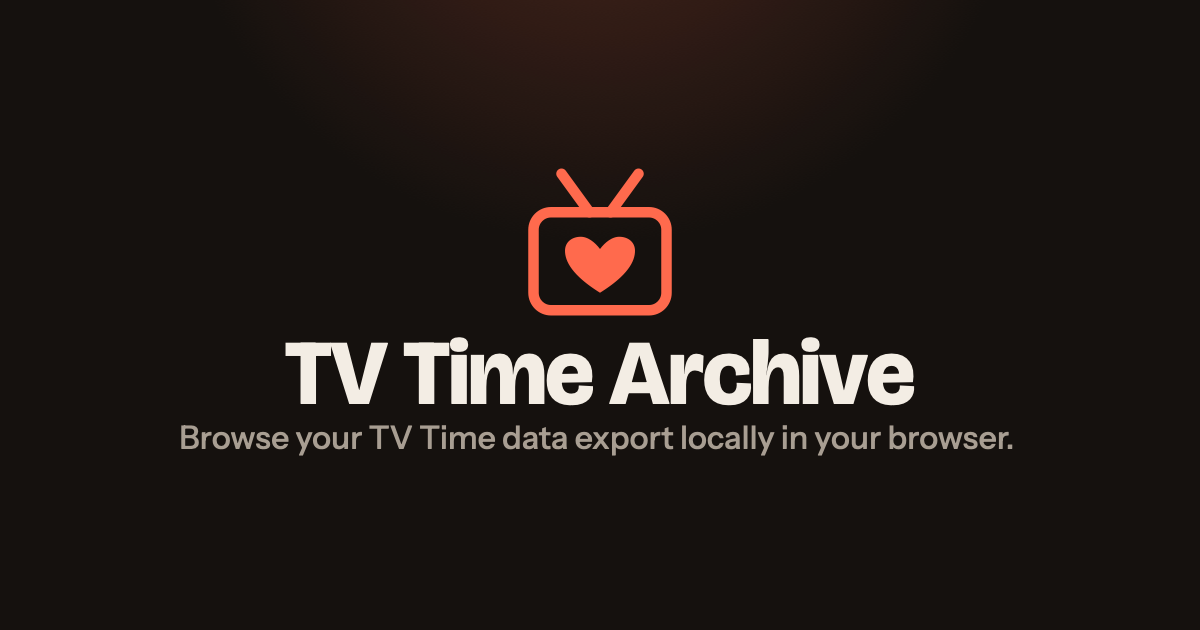
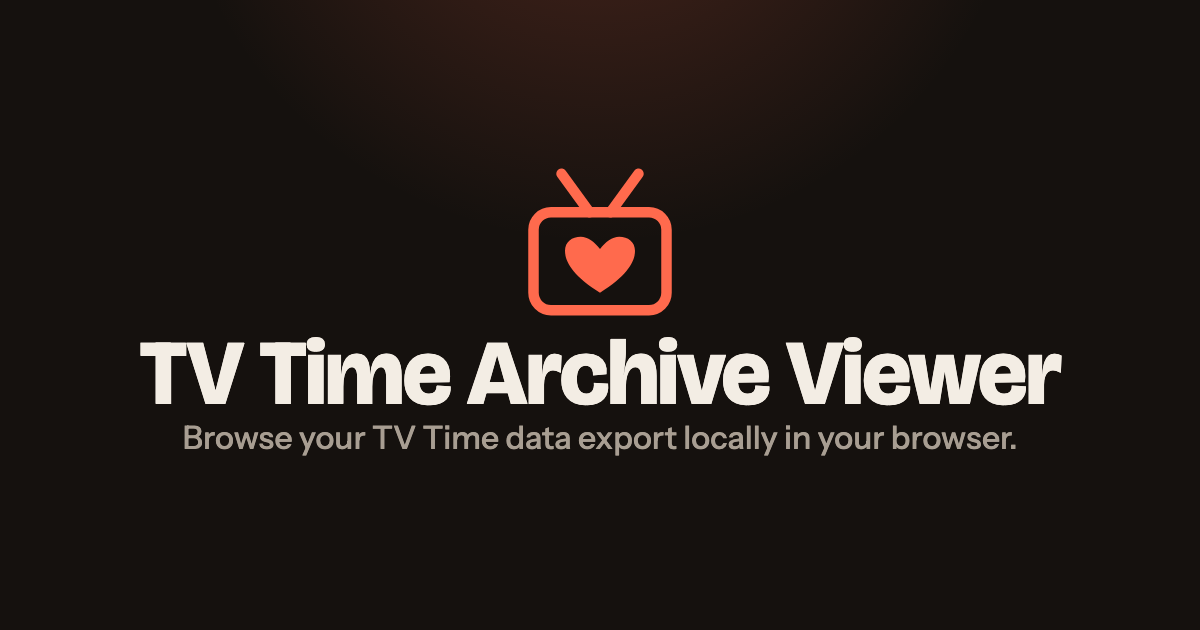
Fix app name inconsistencies throughout app

Changed region(s): [[0.0925, 0.5127, 0.8942, 0.7238]]

diff --git a/viewer/styles.css b/viewer/styles.css
@@ -62,7 +62,7 @@ code { font-family: 'JetBrains Mono', ui-monospace, "SF Mono", Menlo, Consolas, 
 button { font-family: inherit; cursor: pointer; }
 
 /* Display face, headings & big numerals (by selector, so markup is untouched) */
-.brand h1, .brand-rail, .view-head h2, .section-title,
+.brand h1, .view-head h2, .section-title,
 .stat-value, .detail-hero-text h2, .dz-title {
   font-family: 'Bricolage Grotesque', 'Instrument Sans', sans-serif;
   letter-spacing: -.02em;
@@ -126,7 +126,6 @@ button { font-family: inherit; cursor: pointer; }
 
 /* ---------- App shell ---------- */
 .app { min-height: 100dvh; }
-.brand-rail { display: none; }   /* desktop-only; hidden on mobile (shown in wide media query) */
 
 .topbar {
   position: sticky; top: 0; z-index: 20;
@@ -639,7 +638,7 @@ details.season[open] > summary .season-caret { transform: rotate(90deg); }
    =================================================================== */
 @media (min-width: 860px) {
   :root { --topbar-h: 60px; }
-  .app { display: grid; grid-template-columns: 232px 1fr; grid-template-rows: auto 1fr; grid-template-areas: "brandbar topbar" "sidebar main"; min-height: 100dvh; }
+  .app { display: grid; grid-template-columns: 232px 1fr; grid-template-rows: auto 1fr; grid-template-areas: "sidebar topbar" "sidebar main"; min-height: 100dvh; }
   .topbar { grid-area: topbar; }
   .view-root { grid-area: main; padding: 20px 24px 40px; }
   .profile-hero { margin: -20px -24px 12px; min-height: 360px; }
@@ -670,7 +669,6 @@ details.season[open] > summary .season-caret { transform: rotate(90deg); }
   .tabbar .subnav-item.active { background: var(--surface-2); }
   /* Pin "All data" (the last tab) to the bottom of the sidebar. */
   .tabbar > .tab:last-child { margin-top: auto; }
-  .brand-rail { grid-area: brandbar; display: flex; align-items: center; gap: 10px; padding: 0 18px; height: var(--topbar-h); border-bottom: 1px solid var(--line); border-right: 1px solid var(--line); background: var(--surface); font-weight: 700; }
 
   .stat-grid { grid-template-columns: repeat(4, 1fr); }
   .global-search { width: 260px; }

diff --git a/viewer/index.html b/viewer/index.html
@@ -47,7 +47,7 @@
   <div class="landing-inner">
     <div class="brand">
       <img class="brand-mark" src="favicon.svg" alt="" width="30" height="30">
-      <h1>TV Time Archive</h1>
+      <h1>TV Time Archive Viewer</h1>
     </div>
     <p class="tagline">Browse your TV Time data export locally in your browser.</p>
 
@@ -87,7 +87,7 @@
   <header class="topbar">
     <div class="topbar-left">
       <img class="brand-mark small" src="favicon.svg" alt="" width="22" height="22">
-      <strong id="appTitle">TV Time Archive</strong>
+      <strong id="appTitle">TV Time Archive Viewer</strong>
     </div>
     <div class="topbar-right">
       <input id="globalSearch" class="global-search" type="search" placeholder="Search this view…" hidden>

diff --git a/viewer/refract/index.html b/viewer/refract/index.html
@@ -48,7 +48,7 @@
   <div class="landing-inner">
     <div class="brand">
       <img class="brand-mark" src="favicon.svg" alt="" width="30" height="30">
-      <h1>Refract Archive</h1>
+      <h1>Refract Archive Viewer</h1>
     </div>
     <p class="tagline">Browse your Refract data export locally in your browser.</p>
 
@@ -89,7 +89,7 @@
   <header class="topbar">
     <div class="topbar-left">
       <img class="brand-mark small" src="favicon.svg" alt="" width="22" height="22">
-      <strong id="appTitle">Refract Archive</strong>
+      <strong id="appTitle">Refract Archive Viewer</strong>
     </div>
     <div class="topbar-right">
       <input id="globalSearch" class="global-search" type="search" placeholder="Search this view…" hidden>

diff --git a/viewer/refract/app/config.js b/viewer/refract/app/config.js
@@ -23,7 +23,6 @@ const hasAnime = (model) => model.shows.some(s => s.isAnime);
 const has = (key) => (model) => (model[key] || []).length > 0;
 
 export const REFRACT_APP = {
-  brand: { title: 'Refract Archive' },
   views: [
     { id: 'home',   label: 'Home',   icon: 'ph-house', render: renderHome },
     // Watch group
@@ -65,5 +64,5 @@ export const REFRACT_APP = {
     dropped:     ['warn', 'Dropped'],
   },
   settingsExtras: null,
-  crossLink: { label: 'Open TV Time Archive', href: '../' },
+  crossLink: { label: 'Open TV Time Archive Viewer', href: '../' },
 };

diff --git a/viewer/app/ui/shell.js b/viewer/app/ui/shell.js
@@ -10,11 +10,6 @@ import { showChooser } from './landing.js';
 import { applyState, hashToState, navigate } from './router.js';
 
 export function buildChrome() {
-  // desktop brand rail (inserted once)
-  if (!$('.brand-rail')) {
-    const rail = el('div', { class: 'brand-rail' }, [el('img', { class: 'brand-mark small', src: 'favicon.svg', alt: '', width: 22, height: 22 }), APP.brand.title]);
-    $('#app').prepend(rail);
-  }
   const bar = $('#tabbar');
   bar.innerHTML = '';
   const prof = STATE.model && STATE.model.profile;

diff --git a/viewer/app/config.js b/viewer/app/config.js
@@ -89,7 +89,6 @@ function settingsExtras({ makeClear, refresh }) {
 }
 
 export const TVTIME_APP = {
-  brand: { title: 'TV Time Archive' },
   views: VIEWS,
   groups: GROUPS,
   detail: {
@@ -111,5 +110,5 @@ export const TVTIME_APP = {
     watchlist: ['accent', 'Watchlist'], watched: ['good', 'Watched'], rated: ['warn', 'Rated'],
   },
   settingsExtras,
-  crossLink: { label: 'Open Refract Archive', href: 'refract/' },
+  crossLink: { label: 'Open Refract Archive Viewer', href: 'refract/' },
 };

diff --git a/viewer/app/core/app.js b/viewer/app/core/app.js
@@ -7,7 +7,6 @@
 import { STATE } from './state.js';
 
 export const APP = {
-  brand: { title: '' },
   views: [],     // [{ id, label, icon, render, available?(model), fallback? }]
   groups: {},    // groupId -> { label, icon, children:[viewId] } (children contiguous in views)
   groupOf: {},   // viewId -> groupId (derived)

diff --git a/README.md b/README.md
@@ -198,6 +198,11 @@ Static site, no build step. `netlify.toml` publishes the `viewer/` folder as-is;
 any static host works. The Refract viewer ships from the same folder, at `viewer/refract/`.
 Keep your own exports out of the published folder and out of git.
 
+The two social preview images are the exception: they are committed as PNGs but
+authored as `og-image.svg` and `og-image-refract.svg`. After editing either, run
+`./og-images.sh` to re-render both. It drives headless Chrome so the text picks up
+the same web fonts the site loads; set `CHROME` if yours is not in the usual place.
+
 ## License
 
 [MIT](LICENSE).
